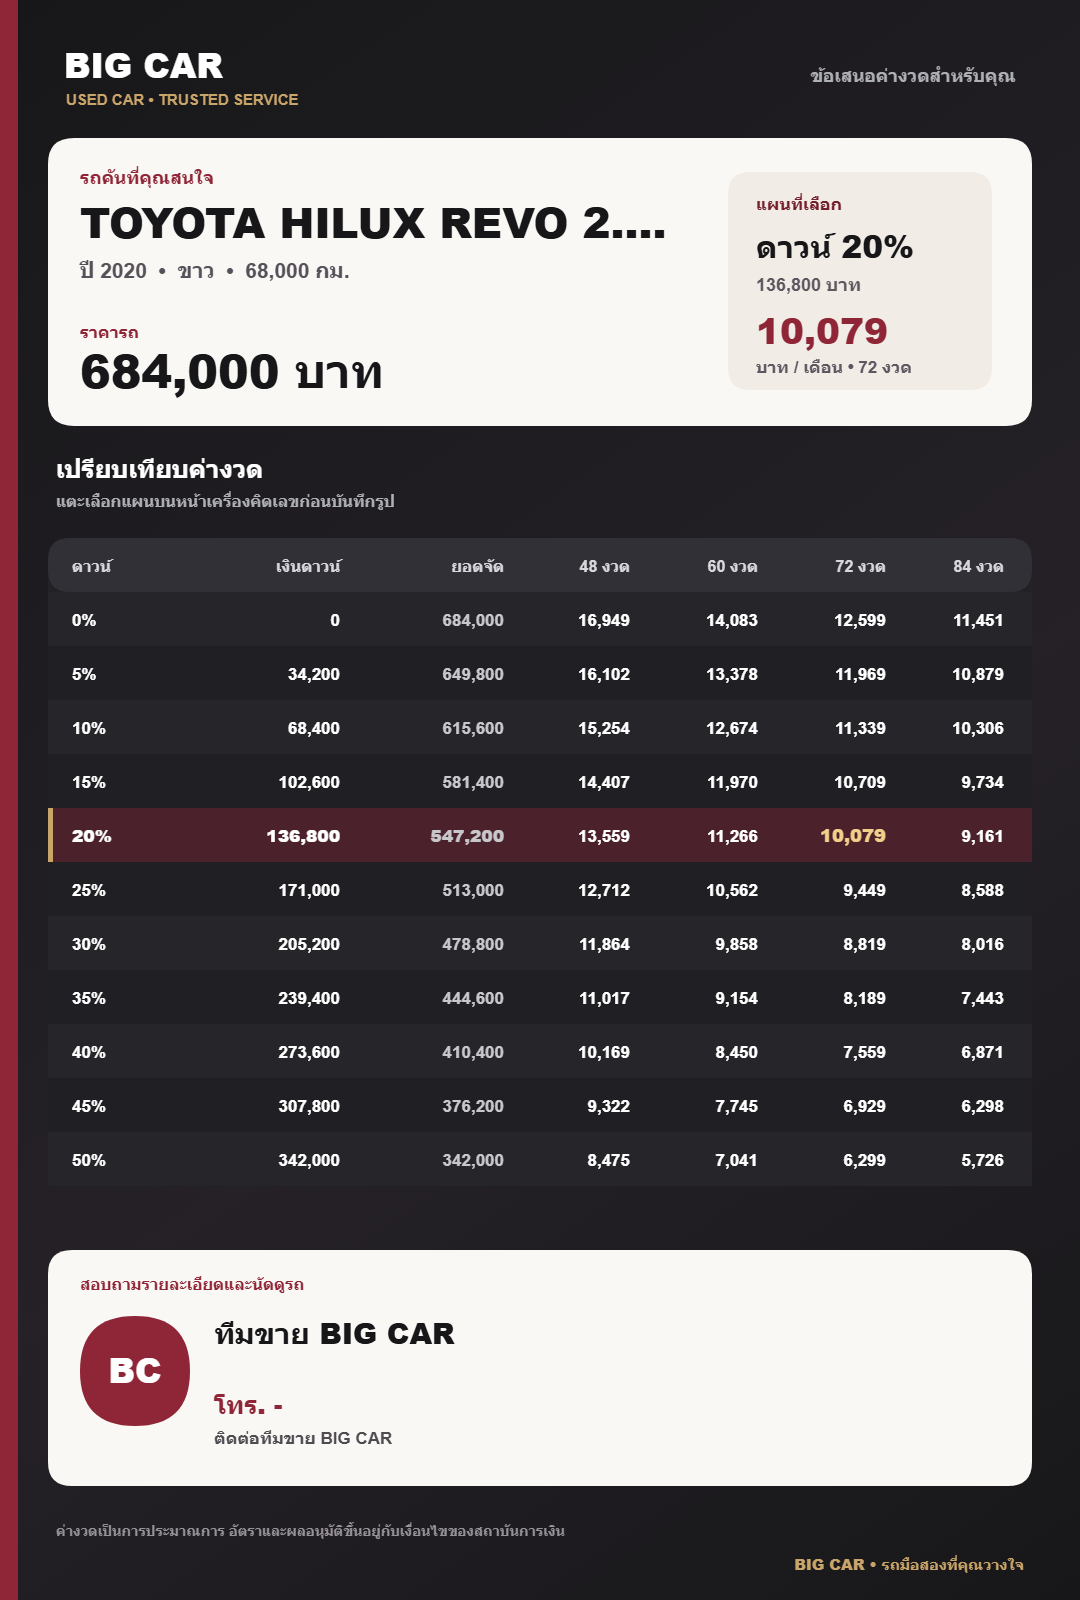
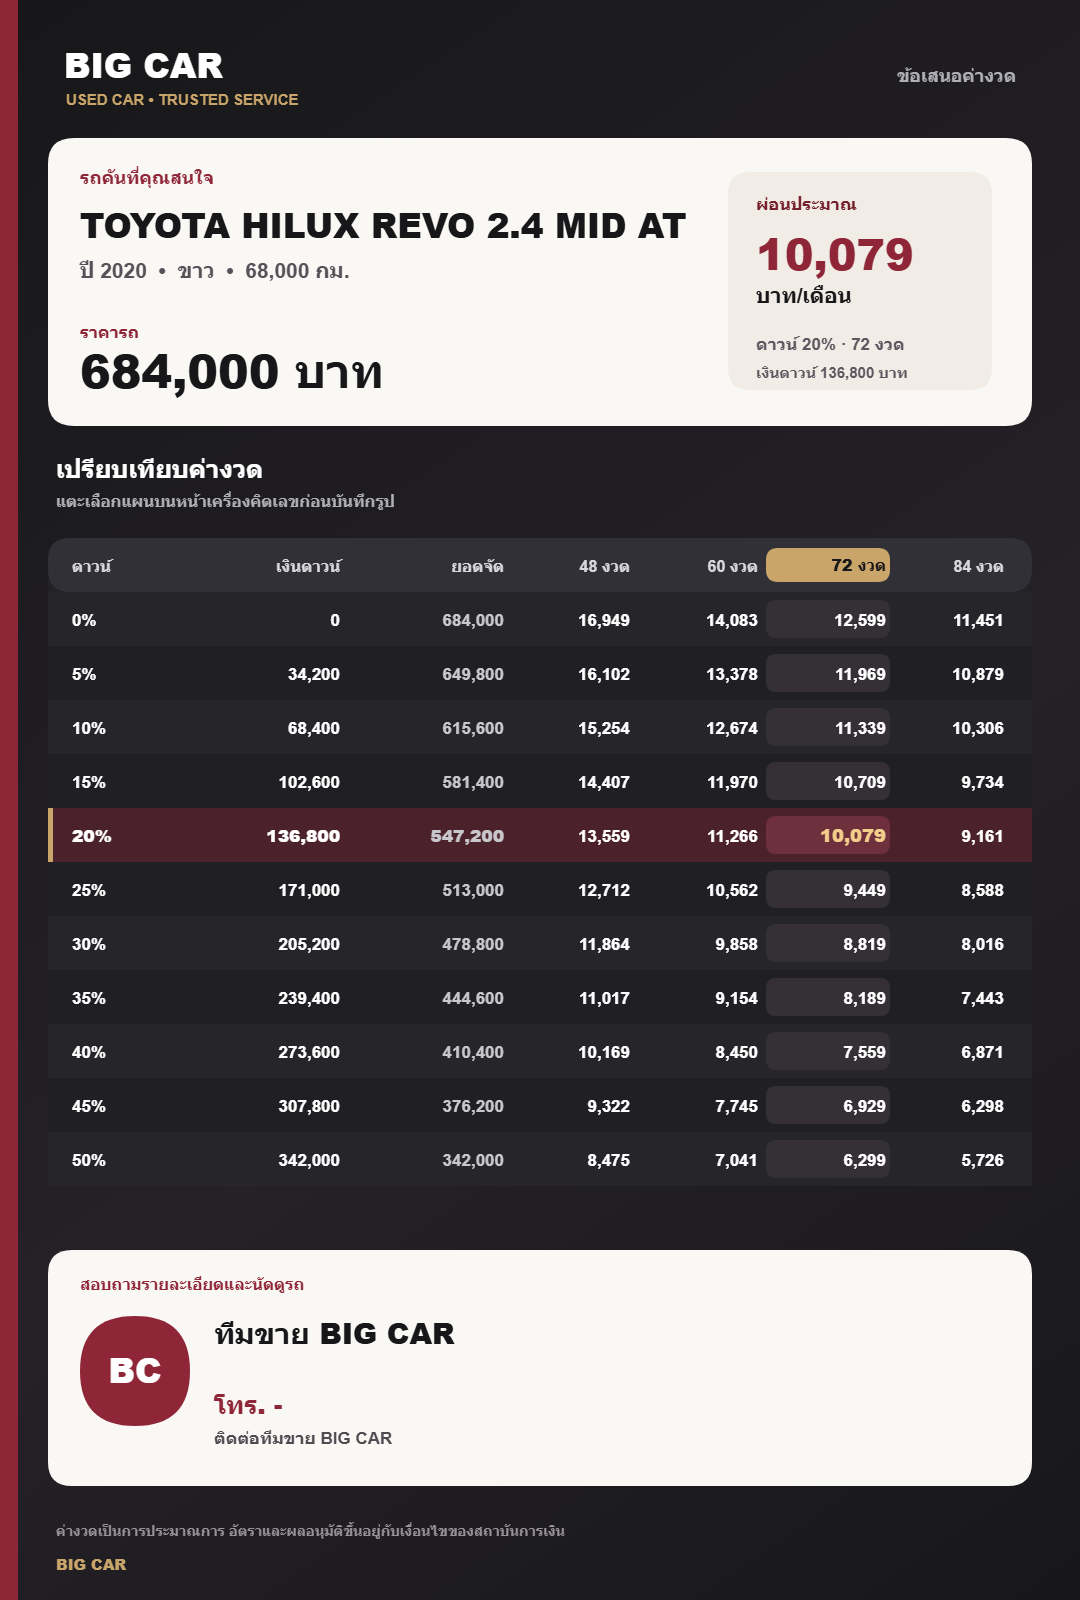
fix(calculator): polish quote export hierarchy

diff --git a/lib/calculator-quote-canvas.ts b/lib/calculator-quote-canvas.ts
@@ -58,6 +58,7 @@ export function drawCalculatorQuote(
   const selectedRow = model.rows.find((row) => row.label === model.selectedDownLabel) || model.rows[0];
   const selectedTerm = terms.find((term) => term.key === model.selectedTermKey) || terms[2];
   const selectedPayment = selectedRow?.payments[model.selectedTermKey] || 0;
+  const hasVehicleTitle = Boolean(model.carModel.trim());
 
   const gradient = ctx.createLinearGradient(0, 0, CALCULATOR_EXPORT_WIDTH, CALCULATOR_EXPORT_HEIGHT);
   gradient.addColorStop(0, "#171719");
@@ -77,7 +78,7 @@ export function drawCalculatorQuote(
   ctx.textAlign = "right";
   ctx.fillStyle = "#aeb0b5";
   ctx.font = "600 18px Arial, sans-serif";
-  ctx.fillText("ข้อเสนอค่างวดสำหรับคุณ", 1016, 82);
+  ctx.fillText("ข้อเสนอค่างวด", 1016, 82);
   ctx.textAlign = "left";
 
   card(ctx, 48, 138, 984, 288, 26, "#faf8f5");
@@ -85,13 +86,13 @@ export function drawCalculatorQuote(
   ctx.font = "800 18px Arial, sans-serif";
   ctx.fillText("รถคันที่คุณสนใจ", 80, 184);
   ctx.fillStyle = "#171719";
-  ctx.font = "900 42px Arial, sans-serif";
-  fitText(ctx, model.carModel.trim() || "ยังไม่ระบุรุ่นรถ", 80, 238, 610);
+  const vehicleTitle = hasVehicleTitle ? model.carModel.trim() : "คำนวณค่างวดเบื้องต้น";
+  fitTextAtSize(ctx, vehicleTitle, 80, 238, 610, 42, 29);
   ctx.fillStyle = "#565158";
   ctx.font = "700 21px Arial, sans-serif";
-  const vehicleDetail = [model.actualYear && `ปี ${model.actualYear}`, model.carColor, model.mileage]
-    .filter(Boolean)
-    .join("  •  ");
+  const vehicleDetail = hasVehicleTitle
+    ? [model.actualYear && `ปี ${model.actualYear}`, model.carColor, model.mileage].filter(Boolean).join("  •  ")
+    : "อ้างอิงจากราคารถที่ระบุ";
   fitText(ctx, vehicleDetail || "รายละเอียดรถตามข้อมูลที่กรอก", 80, 278, 610);
   ctx.fillStyle = "#8f2637";
   ctx.font = "700 17px Arial, sans-serif";
@@ -105,19 +106,18 @@ export function drawCalculatorQuote(
   ctx.fill();
   ctx.fillStyle = "#741f2c";
   ctx.font = "800 17px Arial, sans-serif";
-  ctx.fillText("แผนที่เลือก", 756, 210);
-  ctx.fillStyle = "#171719";
-  ctx.font = "900 31px Arial, sans-serif";
-  ctx.fillText(`ดาวน์ ${selectedRow?.label || "-"}`, 756, 258);
-  ctx.fillStyle = "#5d5860";
-  ctx.font = "700 18px Arial, sans-serif";
-  ctx.fillText(`${wholeMoney(selectedRow?.downPayment || 0)} บาท`, 756, 291);
+  ctx.fillText("ผ่อนประมาณ", 756, 210);
   ctx.fillStyle = "#8f2637";
-  ctx.font = "900 36px Arial, sans-serif";
-  ctx.fillText(`${wholeMoney(selectedPayment)}`, 756, 344);
+  ctx.font = "900 43px Arial, sans-serif";
+  ctx.fillText(`${wholeMoney(selectedPayment)}`, 756, 270);
+  ctx.fillStyle = "#171719";
+  ctx.font = "900 21px Arial, sans-serif";
+  ctx.fillText("บาท/เดือน", 756, 303);
   ctx.fillStyle = "#5d5860";
   ctx.font = "700 17px Arial, sans-serif";
-  ctx.fillText(`บาท / เดือน • ${selectedTerm.months} งวด`, 756, 373);
+  ctx.fillText(`ดาวน์ ${selectedRow?.label || "-"} · ${selectedTerm.months} งวด`, 756, 350);
+  ctx.font = "600 15px Arial, sans-serif";
+  ctx.fillText(`เงินดาวน์ ${wholeMoney(selectedRow?.downPayment || 0)} บาท`, 756, 378);
 
   ctx.fillStyle = "#ffffff";
   ctx.font = "900 25px Arial, sans-serif";
@@ -151,6 +151,16 @@ export function drawCalculatorQuote(
   ctx.font = "700 16px Arial, sans-serif";
   ctx.fillStyle = "#d8d8dc";
   columns.forEach((column) => cellText(ctx, column.label, column.x, tableY + 34, column.width, column.align));
+  const selectedColumnIndex = terms.findIndex((term) => term.key === model.selectedTermKey) + 3;
+  const selectedColumn = columns[selectedColumnIndex];
+  if (selectedColumn) {
+    ctx.fillStyle = "#c9a56a";
+    roundRect(ctx, selectedColumn.x - 8, tableY + 10, selectedColumn.width + 12, 34, 12);
+    ctx.fill();
+    ctx.fillStyle = "#171719";
+    ctx.font = "900 16px Arial, sans-serif";
+    cellText(ctx, selectedColumn.label, selectedColumn.x, tableY + 33, selectedColumn.width, selectedColumn.align);
+  }
 
   model.rows.forEach((row, index) => {
     const y = tableY + headerH + index * rowH;
@@ -169,6 +179,11 @@ export function drawCalculatorQuote(
     cellText(ctx, wholeMoney(row.financeAmount), columns[2].x, y + 34, columns[2].width, "right");
     terms.forEach((term, termIndex) => {
       const active = selected && term.key === model.selectedTermKey;
+      if (term.key === model.selectedTermKey) {
+        ctx.fillStyle = selected ? "#6f303e" : "#343035";
+        roundRect(ctx, columns[termIndex + 3].x - 8, y + 8, columns[termIndex + 3].width + 12, rowH - 16, 10);
+        ctx.fill();
+      }
       ctx.fillStyle = active ? "#f4cf8b" : "#ffffff";
       ctx.font = active ? "900 18px Arial, sans-serif" : "700 17px Arial, sans-serif";
       cellText(ctx, payment(row.payments[term.key]), columns[termIndex + 3].x, y + 34, columns[termIndex + 3].width, "right");
@@ -208,11 +223,9 @@ export function drawCalculatorQuote(
   ctx.fillStyle = "#969298";
   ctx.font = "600 14px Arial, sans-serif";
   ctx.fillText("ค่างวดเป็นการประมาณการ อัตราและผลอนุมัติขึ้นอยู่กับเงื่อนไขของสถาบันการเงิน", 56, 1536);
-  ctx.textAlign = "right";
   ctx.fillStyle = "#c9a56a";
   ctx.font = "800 15px Arial, sans-serif";
-  ctx.fillText("BIG CAR • รถมือสองที่คุณวางใจ", 1024, 1570);
-  ctx.textAlign = "left";
+  ctx.fillText("BIG CAR", 56, 1570);
 }
 
 function drawAvatar(ctx: CanvasRenderingContext2D, image: HTMLImageElement | null, profile: CalculatorQuoteProfile, x: number, y: number, size: number) {
@@ -278,6 +291,24 @@ function fitText(ctx: CanvasRenderingContext2D, text: string, x: number, y: numb
   let clipped = text;
   while (clipped.length > 1 && ctx.measureText(`${clipped}…`).width > maxWidth) clipped = clipped.slice(0, -1);
   ctx.fillText(`${clipped}…`, x, y);
+}
+
+function fitTextAtSize(
+  ctx: CanvasRenderingContext2D,
+  text: string,
+  x: number,
+  y: number,
+  maxWidth: number,
+  preferredSize: number,
+  minimumSize: number,
+) {
+  let fontSize = preferredSize;
+  ctx.font = `900 ${fontSize}px Arial, sans-serif`;
+  while (fontSize > minimumSize && ctx.measureText(text).width > maxWidth) {
+    fontSize -= 1;
+    ctx.font = `900 ${fontSize}px Arial, sans-serif`;
+  }
+  fitText(ctx, text, x, y, maxWidth);
 }
 
 function drawImageContain(ctx: CanvasRenderingContext2D, image: HTMLImageElement, x: number, y: number, width: number, height: number) {
